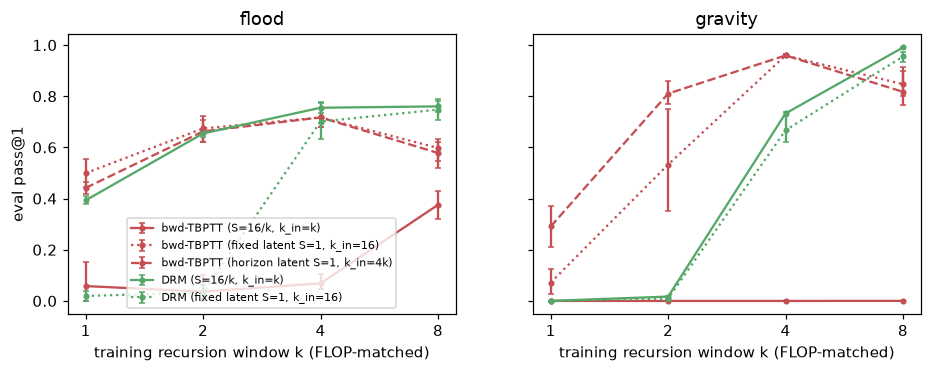
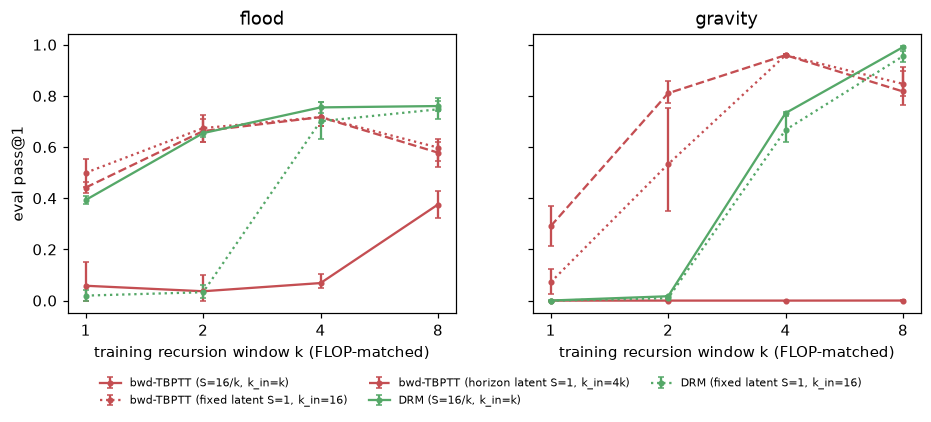
Round 2: lineage verified (43/43 identical, 91de577 -> 23eb93b); claims code-hash fields; k-sweep legend; verify_lineage drops only the loss wall-clock column

diff --git a/scripts/verify_lineage.py b/scripts/verify_lineage.py
@@ -8,7 +8,9 @@ Checks, all of which must pass:
      hash fields must be identical: eval dict, traces, learning curve, per-example bits.
   2. Full-budget committed runs are re-run under the current code and compared with the
      committed results the same way.
-Usage: python scripts/verify_lineage.py PARENT_COMMIT [--full dev/flood/drm_k4_lr0p008 ...]
+The training loss log's elapsed-seconds column, train_seconds and the timing/hash meta
+fields are the only fields excluded from the comparison.
+Usage: python scripts/verify_lineage.py PARENT_COMMIT [--full dev/flood/drm_k4_lr0p008 ...] [--tmp DIR]
 """
 from __future__ import annotations
 
@@ -37,6 +39,8 @@ def strip(d: dict) -> dict:
     d = json.loads(json.dumps(d))
     d["meta"] = {k: v for k, v in d["meta"].items() if k not in VOLATILE_META}
     d["train"].pop("train_seconds", None)
+    # loss rows are [step, phi_used, mean_loss, elapsed_seconds]: drop only the wall-clock column
+    d["train"]["loss"] = [row[:3] for row in d["train"].get("loss", [])]
     return d
 
 
@@ -52,6 +56,9 @@ def same(js_a: Path, js_b: Path) -> tuple[bool, str]:
 
 
 def run(tree: Path, py: str, args: list[str], out: Path) -> Path:
+    done = list(out.rglob("*.json")) if out.exists() else []
+    if len(done) == 1:                    # --tmp reuse: this exact run already finished in this dir
+        return done[0]
     out.mkdir(parents=True, exist_ok=True)
     subprocess.run([py, str(tree / "scripts" / "run_one.py"), *args, "--out", str(out)], check=True,
                    capture_output=True, cwd=tree)
@@ -66,13 +73,17 @@ def main():
     p.add_argument("--full", nargs="*", default=[], help="committed runs, e.g. dev/flood/drm_k4_lr0p008_b12000_r1_s1")
     p.add_argument("--workers", type=int, default=4)
     p.add_argument("--budget", type=int, default=48)
+    p.add_argument("--tmp", help="reuse the outputs of an earlier invocation in this scratch dir")
     a = p.parse_args()
     py = sys.executable
     parent = subprocess.run(["git", "rev-parse", a.parent], cwd=ROOT, check=True, capture_output=True,
                             text=True).stdout.strip()
     cur = code_hash()
-    tmp = Path(tempfile.mkdtemp(prefix="lineage_"))
+    tmp = Path(a.tmp) if a.tmp else Path(tempfile.mkdtemp(prefix="lineage_"))
     tree = tmp / "parent"
+    if tree.exists():
+        subprocess.run(["git", "worktree", "remove", "--force", str(tree)], cwd=ROOT, capture_output=True)
+        subprocess.run(["git", "worktree", "prune"], cwd=ROOT, capture_output=True)
     subprocess.run(["git", "worktree", "add", "--detach", str(tree), parent], cwd=ROOT, check=True, capture_output=True)
     try:
         old = subprocess.run([py, "-c", "from drm.config import code_hash; print(code_hash())"], cwd=tree,

diff --git a/scripts/claims.py b/scripts/claims.py
@@ -145,11 +145,13 @@ def build(s, mut, n_tests):
                         d = json.loads(js.read_text())
                         secs += d["train"].get("train_seconds", 0) + d["meta"].get("eval_seconds", 0)
         c["cpu_h_r2"] = f"{secs / 3600:.1f}"
-    from drm.lineage import accepted_hashes
-    anc = sorted(accepted_hashes(s["meta"]["code_hash"]) - {s["meta"]["code_hash"]})
-    c["code_hash_parent"] = ", ".join(anc) if anc else s["meta"]["code_hash"]
+    # code_hash = current code; code_hash_parent = the hash the results were computed under
+    # (equal unless a verified lineage link, results/code_lineage.json, connects them)
+    from drm.config import code_hash as current_code_hash
+    c["code_hash_parent"] = s["meta"]["code_hash"]
+    c["code_hash"] = current_code_hash()
     lin = R / "code_lineage.json"
-    e = json.loads(lin.read_text())["equivalent"].get(s["meta"]["code_hash"], {}) if lin.exists() else {}
+    e = json.loads(lin.read_text())["equivalent"].get(c["code_hash"], {}) if lin.exists() else {}
     c["lineage_n"] = str(e.get("n_checks", 0))
     if mut:
         for pre, name in (("X", "rev"), ("Q", "r1"), ("Y", "rev2"), ("Z", "r2")):

diff --git a/scripts/make_figures.py b/scripts/make_figures.py
@@ -215,7 +215,8 @@ def fig_ksweep(s):
         ax.set_title(t)
         ax.set_xlabel("training recursion window k (FLOP-matched)")
     np.atleast_1d(axes)[0].set_ylabel("eval pass@1")
-    np.atleast_1d(axes)[0].legend(fontsize=7)
+    h, lab = np.atleast_1d(axes)[0].get_legend_handles_labels()
+    fig.legend(h, lab, ncol=3, fontsize=7, loc="upper center", bbox_to_anchor=(0.5, -0.04), frameon=False)
     save(fig, "ksweep.png")
 
 
